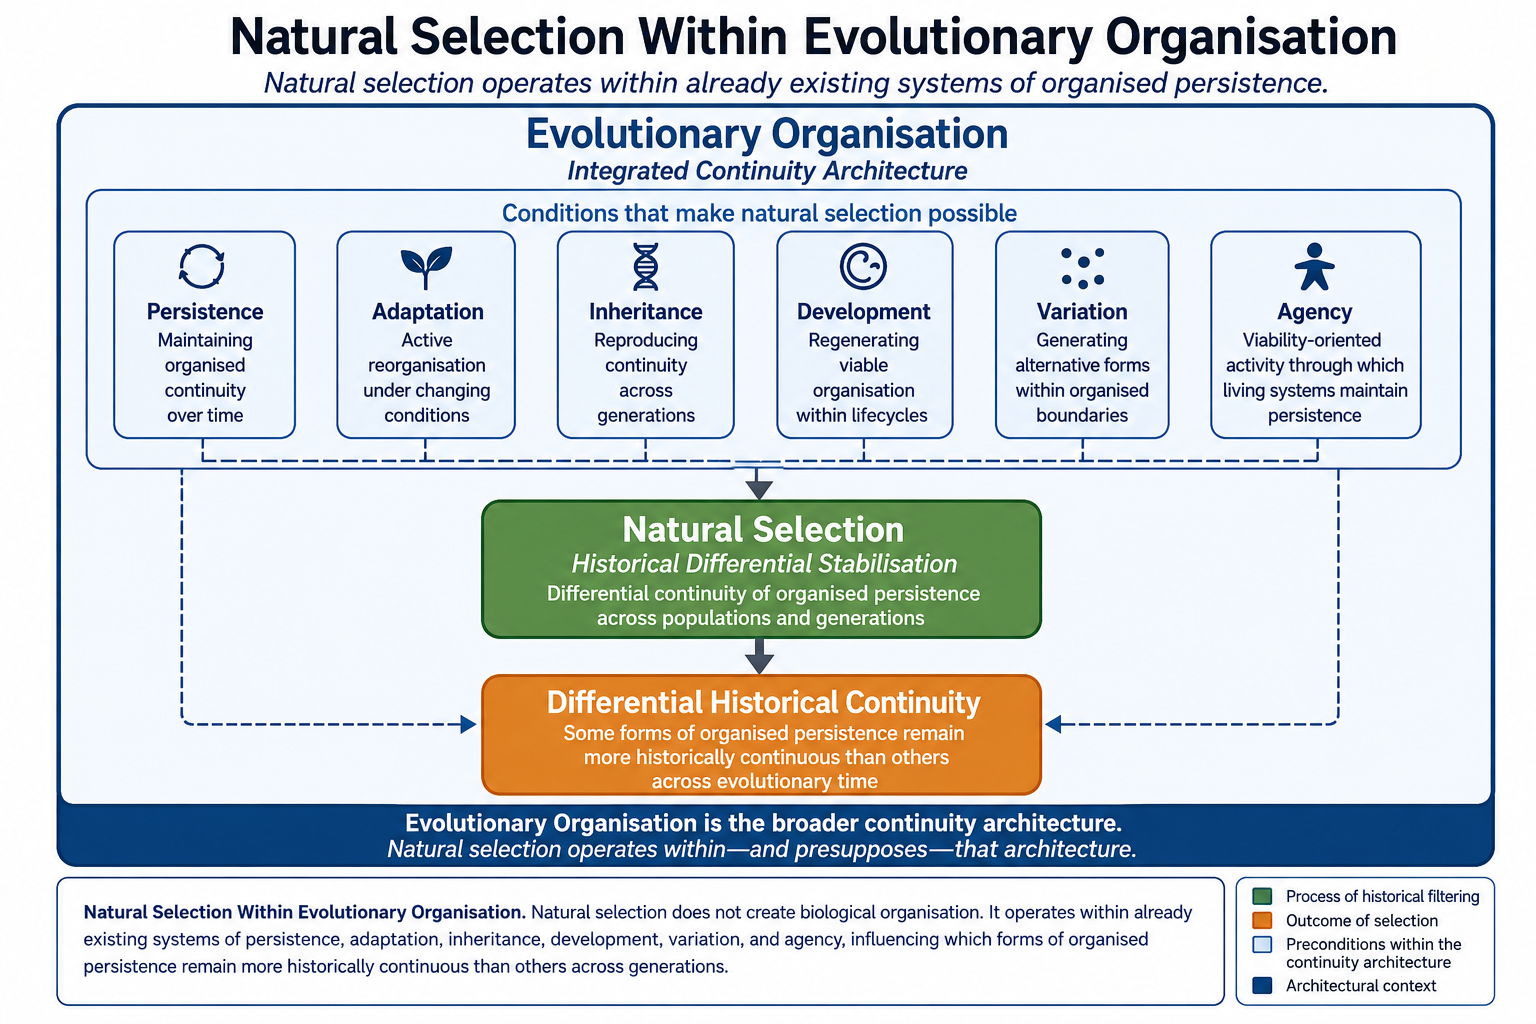
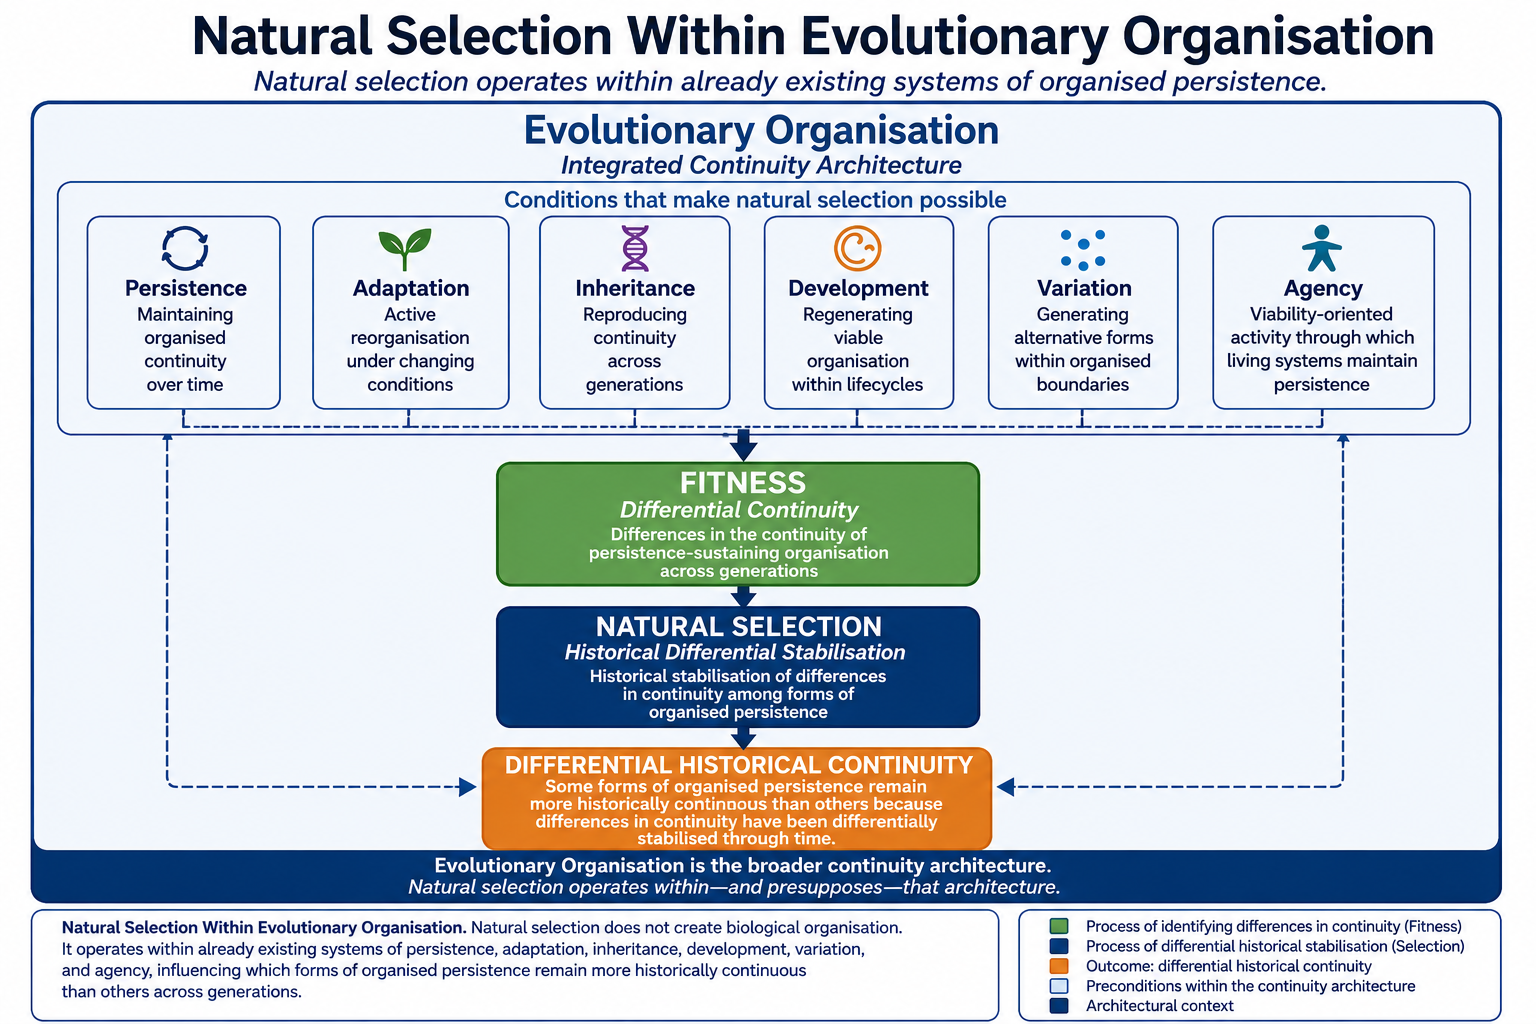
Evolution edits

diff --git a/src/content/articles/natural-selection-and-organised-persistence.md b/src/content/articles/natural-selection-and-organised-persistence.md
@@ -6,7 +6,7 @@ type: article
 status: canonical
 canonical: true
 canonicalLockDate: 2026-05-05
-revised: 2026-06-17
+revised: 2026-06-18
 cluster: evolutionary-dynamics
 role: core
 
@@ -18,10 +18,7 @@ abstract: >
   presupposes systems already capable of sustaining viability-oriented,
   constraint-closed persistence across generations. Evolutionary explanation
   therefore requires prior attention to persistence, adaptation, inheritance,
-  development, and organisational continuity. APS reframes natural selection
-  as the historically distributed differential stabilisation of organised
-  persistence rather than as the foundational source of biological
-  organisation itself.
+  development, and organisational continuity. APS reframes natural selection as the historically distributed differential stabilisation of persistence-sustaining organisation whose differing fitness contributes to differential continuity across generations. Selection is therefore understood not as the foundational source of biological organisation but as one component within a broader continuity architecture linking agency, viability, organised persistence, fitness, and evolutionary transformation.
 
 relatedGlossaryTerms:
   - natural-selection
@@ -155,11 +152,13 @@ APS accepts these achievements while arguing that they often leave implicit the 
 
 ## The APS Reframing
 
-In APS, natural selection is understood as the historically distributed differential stabilisation of viability-oriented, constraint-closed organisation across generations.
+In APS, natural selection is understood as the historically distributed differential stabilisation of persistence-sustaining organisation whose differing fitness contributes to differential continuity across generations. 
+
+This formulation connects natural selection directly to the APS understanding of fitness. Fitness concerns the differential continuity of persistence-sustaining organisation across generations. Natural selection contributes to evolutionary transformation by differentially stabilising forms of organised persistence whose fitness supports greater historical continuity under particular developmental and ecological conditions. Fitness therefore identifies differences in the continuity of persistence-sustaining organisation, while natural selection describes the differential historical stabilisation of those differences through evolutionary time.
 
 This reformulation preserves the explanatory strengths of evolutionary theory while situating selection within a broader organisational framework. Selection does not generate biological organisation from nothing. It operates only within systems already capable of persistence, inheritance, variation, adaptation, development, and biological agency.
 
-Natural selection therefore does not explain the original existence of viable organisation. Instead, it acts upon historically existing forms of organised persistence, influencing which forms contribute more successfully to future continuity. Selection describes differential continuity across populations of viable systems rather than the creation of viability itself.
+Natural selection therefore does not explain the original existence of viable organisation. Instead, it acts upon historically existing forms of organised persistence, influencing which forms contribute more successfully to future continuity. Selection describes the differential stabilisation of continuity among populations of viable systems rather than the creation of viability itself.
 
 [[box:natural-selection-as-differential-stabilisation]]
 
@@ -177,6 +176,14 @@ For natural selection to occur, several organisational conditions must already b
 
 Living systems must first be capable of maintaining organised persistence across time. They are not static objects but continuously regenerated processes whose activities contribute to sustaining viability under changing conditions. Without persistence there can be no continuity upon which selection can operate.
 
+### Fitness
+
+Natural selection also presupposes differences in fitness among forms of organised persistence. Fitness concerns the differential continuity of persistence-sustaining organisation across generations. Some forms of organisation contribute more effectively to future continuity under particular developmental and ecological conditions than others. These differences in continuity do not arise from selection itself. Rather, they emerge from the viability, developmental organisation, adaptive capacities, and ecological relations of living systems.
+
+This distinction is important because fitness and natural selection perform different explanatory roles. Fitness concerns differences in continuity among forms of organised persistence. Natural selection concerns the differential historical stabilisation of those differences across populations and generations. Fitness therefore helps explain why some forms of organised persistence contribute more effectively to future continuity, while natural selection helps explain how those differences become historically consequential within evolutionary transformation.
+
+[[box:fitness-and-natural-selection]]
+
 ### Adaptation
 
 Living systems must also be capable of adaptive reorganisation. Organisms continually modify and regulate their activities in response to perturbation, instability, and environmental variation. Selection does not generate this adaptive activity. Rather, it registers the historical consequences of adaptive organisation across populations and generations.
@@ -193,7 +200,7 @@ Variation must arise within viable organisational boundaries. Development, physi
 
 Living systems actively regulate physiology, behaviour, development, reproduction, and environmental interaction relative to viability constraints. Selection acts historically upon the consequences of this viability-oriented activity. It does not replace agency with external optimisation. Without agency there would be no organised activity through which persistence could be maintained in the first place.
 
-Natural selection therefore depends upon organisational conditions that it does not itself explain.
+Natural selection therefore depends upon organisational conditions that it does not itself explain. Agency, viability, organised persistence, fitness, adaptation, inheritance, development, and variation collectively establish the continuity architecture within which selection operates.
 
 [[box:evolutionary-organisation-is-not-a-mechanism]]
 
@@ -226,6 +233,10 @@ Natural selection therefore depends upon adaptive organisation without constitut
 The distinction between adaptation and selection points toward a broader insight. Natural selection is not an isolated evolutionary principle operating independently of other biological processes. It functions within a larger architecture of evolutionary organisation.
 
 Inheritance preserves continuity across generations. Variation generates alternative organisational possibilities. Adaptation enables living systems to maintain viability under changing conditions. Development reproduces and transforms continuity across lifecycles. Ecological interaction shapes the conditions under which persistence occurs. Selection contributes to this larger architecture by influencing which forms of organisation remain historically continuous.
+
+Fitness occupies an important position within this architecture because it links organised persistence to differential continuity. Adaptation, development, inheritance, and ecological interaction all contribute to the continuity-producing capacities of living systems. Fitness reflects differences in those capacities, while natural selection differentially stabilises the resulting differences in continuity across generations.
+
+This relationship helps clarify why fitness and selection should not be conflated. Fitness concerns differences in the continuity of persistence-sustaining organisation, whereas natural selection concerns the historical stabilisation of those differences. Fitness therefore helps explain how organised persistence contributes unequally to future continuity, while selection helps explain how those unequal contributions become historically amplified through evolutionary time.
 
 Evolutionary organisation therefore cannot be reduced to natural selection alone. Selection remains indispensable, but it operates alongside a network of interacting processes that collectively sustain historical continuity. Evolution is not explained by a single mechanism but by the integrated organisation through which living systems persist, diversify, adapt, and transform across time.
 
@@ -267,7 +278,11 @@ At this point a broader pattern becomes visible. Natural selection does not stan
 
 Persistence makes selection possible by maintaining continuity through time. Adaptation generates the organisational possibilities upon which selection acts. Inheritance reproduces continuity across generations. Development regenerates viable organisation within each lifecycle. Variation introduces alternative forms of organisation, while biological agency contributes the viability-oriented activity through which living systems sustain themselves under changing conditions.
 
-Natural selection contributes to this architecture by influencing which forms of organised persistence remain historically continuous relative to others. It therefore occupies an important position within evolutionary organisation without constituting the whole of evolutionary explanation.
+Natural selection contributes to this architecture by differentially stabilising forms of persistence-sustaining organisation whose fitness contributes differently to historical continuity. Agency sustains viability-oriented activity in the present. Viability enables organised persistence. Fitness reflects differences in the continuity of such persistence across generations. Natural selection contributes to this architecture by differentially stabilising forms of persistence-sustaining organisation whose fitness contributes differently to historical continuity. Biological agency sustains the viability-oriented activity through which living systems maintain the conditions of their own persistence. Viability enables organised persistence. Fitness reflects differences in the continuity of such persistence across generations. Natural selection then differentially stabilises those differences, contributing to evolutionary transformation through time.
+
+Selection therefore occupies an important position within evolutionary organisation without constituting the whole of evolutionary explanation. It operates within a broader continuity architecture whose explanatory structure extends from agency and viability through organised persistence and fitness to natural selection and evolutionary transformation.
+
+Selection therefore occupies an important position within evolutionary organisation without constituting the whole of evolutionary explanation. It operates within a broader continuity architecture whose explanatory structure extends from agency and viability through organised persistence and fitness to natural selection and evolutionary transformation.
 
 This perspective helps clarify why APS rejects both selection-first and gene-first accounts of evolution. Selection remains indispensable, but it operates within a broader network of developmental, ecological, behavioural, and organisational processes that collectively sustain historical continuity. Understanding selection therefore requires understanding the larger continuity architecture within which it functions.
 
@@ -322,6 +337,8 @@ APS situates natural selection within a broader explanatory grammar organised th
 
 Agency asks what living systems do to sustain their own persistence. Process explains how continuity is maintained despite continual material and organisational change. Scale reveals how persistence is distributed across developmental, ecological, organismal, and historical domains. Natural selection contributes to this explanatory framework by describing one of the principal ways continuity becomes historically differentiated across generations.
 
+Within this explanatory grammar, fitness functions as the bridge linking organised persistence to differential historical continuity. Fitness concerns differences in the continuity of persistence-sustaining organisation across generations, whereas natural selection concerns the differential historical stabilisation of those differences. The two concepts therefore perform complementary explanatory roles. Within this explanatory grammar, fitness functions as the bridge linking organised persistence to differential historical continuity. Fitness concerns differences in the continuity of persistence-sustaining organisation across generations, whereas natural selection concerns the differential historical stabilisation of those differences. The two concepts therefore perform complementary explanatory roles. Fitness identifies differences in the continuity of organised persistence, while natural selection explains how those differences become historically amplified through evolutionary time.
+
 Selection therefore occupies an important but limited position within biological explanation. It neither replaces agency nor eliminates the need for developmental, ecological, and organisational analysis. Instead, it contributes a specifically historical perspective on how forms of organised persistence become differentially stabilised over evolutionary time.
 
 From this perspective, natural selection is not an isolated principle standing apart from the rest of biology. It is one component within a larger explanatory architecture concerned with understanding how living systems maintain, reproduce, transform, and extend continuity across time.
@@ -336,7 +353,7 @@ First, it restores organised persistence as the primary target of evolutionary e
 
 Second, it clarifies that viability precedes selection. Differential continuity can occur only among systems capable of remaining sufficiently organised to participate in evolutionary history. The existence of viable organisation therefore remains explanatorily prior to the historical filtering that selection describes.
 
-Third, it distinguishes adaptive production from historical stabilisation. Living systems actively generate adaptive responses through ongoing viability-oriented activity, while selection influences the long-term continuity of some adaptive organisations relative to others. This distinction helps clarify the relationship between agency and evolutionary change.
+Third, it clarifies the role of fitness within evolutionary explanation. Fitness concerns the differential continuity of persistence-sustaining organisation across generations, whereas natural selection concerns the differential historical stabilisation of those differences in continuity. Fitness therefore links organised persistence to evolutionary transformation by identifying differences in continuity among forms of organised persistence. Natural selection then helps explain how those differences become historically consequential through evolutionary time.
 
 Fourth, it integrates development more fully into evolutionary explanation. Development is not merely an intermediary between genes and adult traits but an essential component of the continuity architecture through which living organisation is reproduced and transformed across generations.
 
@@ -356,6 +373,10 @@ Selection operates only where living systems already exist as viability-oriented
 
 APS does not reject natural selection. On the contrary, it recognises selection as one of the central processes through which evolutionary continuity becomes historically differentiated across generations. What APS rejects is the tendency to treat selection as the sole or foundational source of biological organisation.
 
-The broader continuity architecture of life remains explanatorily prior. Organisation enables persistence. Persistence enables adaptation. Adaptation generates evolutionary possibilities. Inheritance reproduces continuity. Development regenerates living organisation. Natural selection influences which forms of organised persistence contribute most successfully to future continuity.
+The broader continuity architecture of life remains explanatorily prior. The broader continuity architecture of life remains explanatorily prior. Biological agency sustains the viability-oriented activity through which living systems maintain the conditions of their own persistence. Viability enables organised persistence. Development regenerates continuity across lifecycles, while inheritance reproduces continuity across generations. Adaptation reorganises persistence under changing conditions. Fitness reflects differences in the continuity of persistence-sustaining organisation, and natural selection differentially stabilises those differences through evolutionary time.
+
+Fitness provides the critical bridge between organised persistence and natural selection. Living systems first sustain viability through biological agency and persistence-sustaining organisation. Differences in the continuity of that organisation generate differences in fitness across generations. Natural selection then differentially stabilises those differences in continuity, contributing to the historical transformation of persistence-sustaining organisation through evolutionary time.
+
+Viewed in this way, natural selection neither creates organised persistence nor exhausts evolutionary explanation. It operates within a broader continuity architecture extending from agency and viability through organised persistence and fitness to evolutionary transformation. Selection remains indispensable, but its explanatory role becomes clearer when situated within the larger organisation of life that it helps transform rather than create.
 
 Selection remains central to evolutionary biology, but it functions within the larger architecture of evolutionary organisation. Evolution is therefore not explained by selection alone but by the integrated historical organisation through which life remains both persistent and transformable across time.

diff --git a/src/content/boxes/aps-box-fitnss-and-natural-selection.md b/src/content/boxes/aps-box-fitnss-and-natural-selection.md
@@ -1,0 +1,25 @@
+---
+title: Fitness and Natural Selection
+slug: fitness-and-natural-selection
+type: box
+status: canonical
+date: 2026-06-18
+revised: 2026-06-18
+summary: >
+  Fitness and natural selection are closely related but perform different
+  explanatory roles. Fitness concerns differences in the continuity of
+  persistence-sustaining organisation, whereas natural selection concerns
+  the differential historical stabilisation of those differences across
+  generations.
+---
+
+Fitness and natural selection are often treated as though they refer to the same phenomenon. APS distinguishes them because they address different aspects of evolutionary continuity.
+
+Fitness concerns the differential continuity of persistence-sustaining organisation across generations. Living systems differ in their capacity to contribute to future continuity under particular developmental and ecological conditions. Fitness identifies these differences in continuity.
+
+Natural selection concerns the differential historical stabilisation of those differences. Selection does not create fitness, nor does fitness create selection. Rather, selection operates upon historically existing differences in continuity among forms of organised persistence.
+
+The relationship can be understood as a sequence. Organised persistence generates differences in continuity. These differences constitute differences in fitness. Natural selection then differentially stabilises those differences through evolutionary time, contributing to the historical transformation of persistence-sustaining organisation.
+
+APS therefore treats fitness and natural selection as complementary but distinct concepts. Fitness concerns differential continuity, whereas natural selection concerns the differential stabilisation of that continuity across generations.
+---
